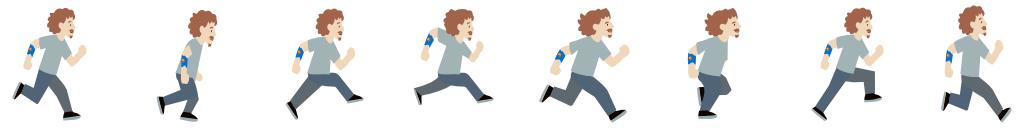
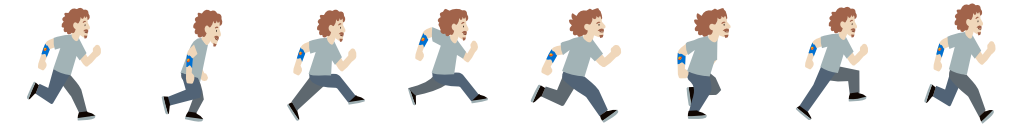
feat: animation improvement

diff --git a/src/components/useCases/home/myGame/scenes/mainScene.ts b/src/components/useCases/home/myGame/scenes/mainScene.ts
@@ -90,7 +90,7 @@ export default class MainScene extends Phaser.Scene {
         start: 0,
         end: 7,
       }),
-      frameRate: 3,
+      frameRate: 1,
       repeat: -1,
     });
 
@@ -100,7 +100,7 @@ export default class MainScene extends Phaser.Scene {
         start: 0,
         end: 7,
       }),
-      frameRate: 6,
+      frameRate: 8,
       repeat: -1,
     });
 
